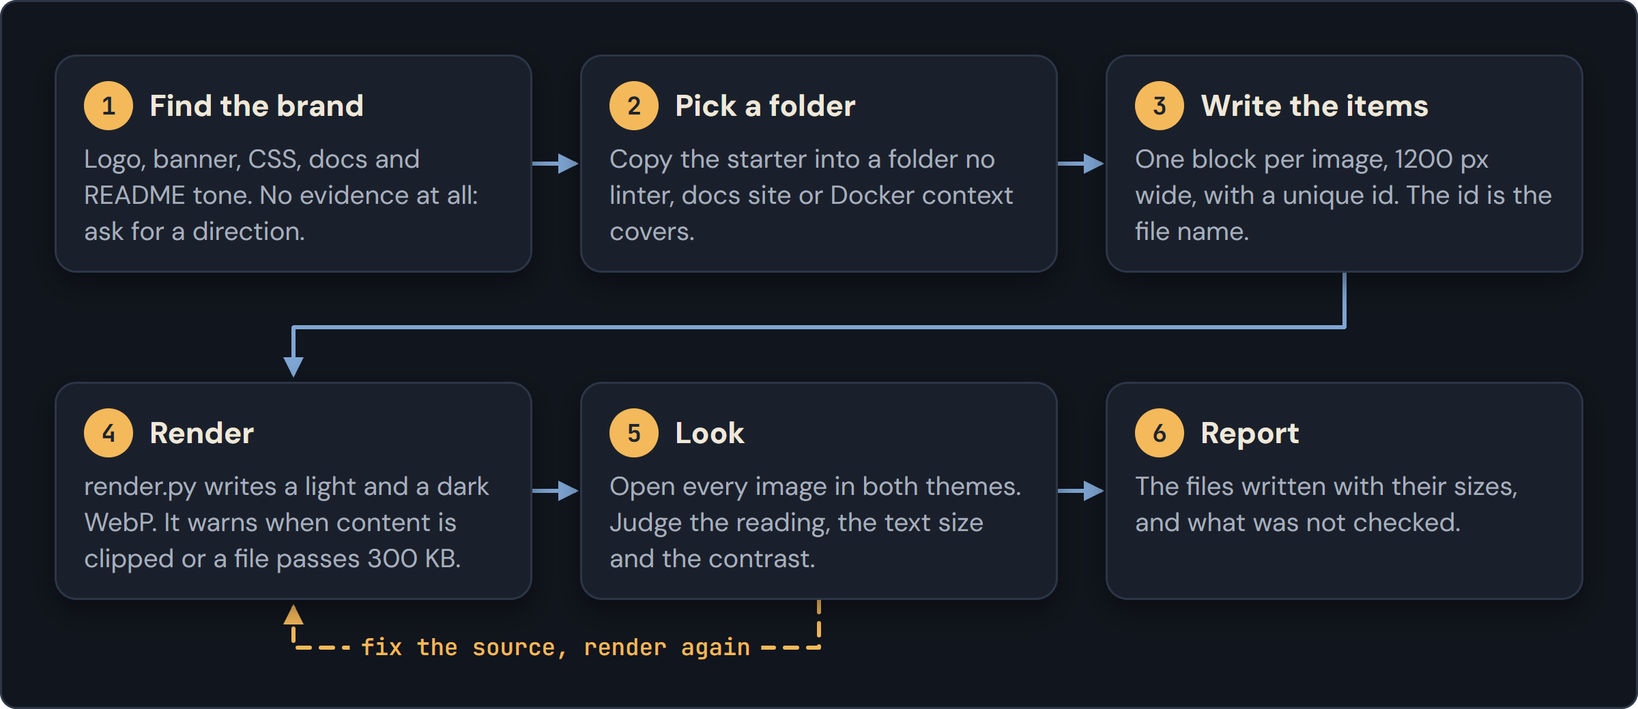
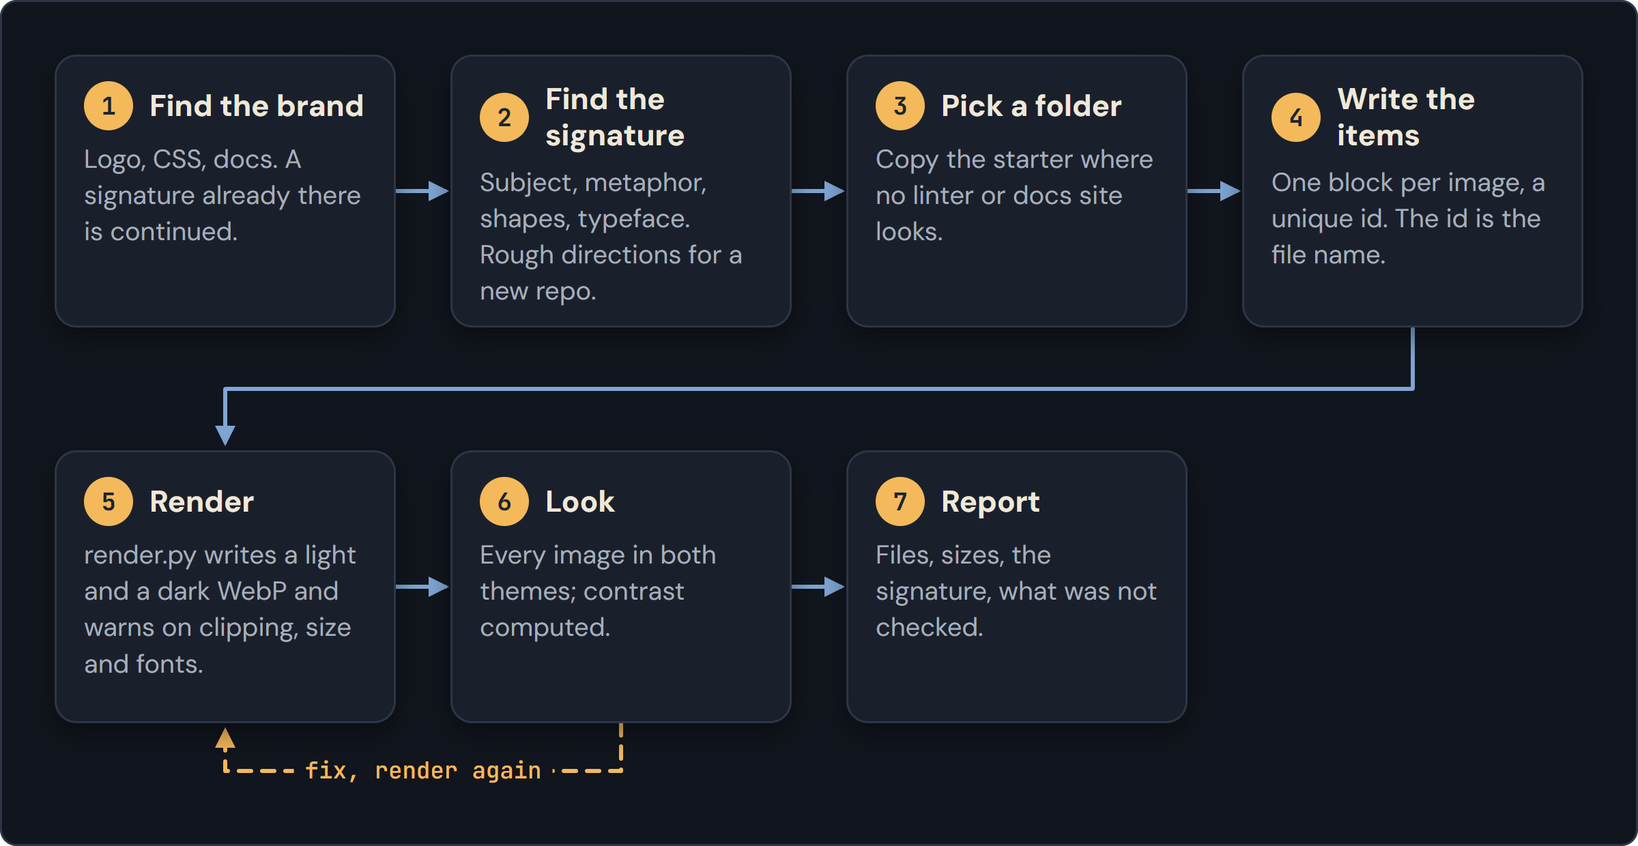
docs(readme-design): redraw pictures to match the reworked skills
Why:
- The README, its picture sources and the pictures still described the earlier skills (an audit, a plan and a rewrite; pictures that match a brand), while the skills now write a complete README with a hero banner and derive a signature per repository. A picture that states a step the skill no longer has is a claim the repository cannot back.
- The README said no look is fixed and the starter colours are placeholders, which no longer states what the skills do.
- The records of the README pictures needed to say that this repository's look is one example of a signature and not a template, and to log the redraw.

Changes:
- README.md: skills-map alt text - the readme card now reads "in, no README, or a wall of text, ASCII diagrams or Mermaid; out, a complete README with a hero banner and light and dark pictures", and the illustration card reads "pictures with a look of their own"
- README.md: skills table - the readme row trigger is now "the README is missing, or a wall of text, ASCII diagrams or Mermaid" and its result "a complete README with a hero banner and light/dark image pairs, in a look drawn from your repository"; the illustration row trigger is "pictures with a look of their own that regenerate from text"
[…]

diff --git a/assets/source/readme.html b/assets/source/readme.html
@@ -81,14 +81,14 @@
       <div class="arch skill">
         <div class="glow"><svg viewBox="0 0 64 64"><rect x="12" y="8" width="40" height="48" rx="6"/><rect class="al" x="19" y="15" width="26" height="14" rx="3" style="fill: var(--amber-soft)"/><path d="M19 38h26M19 46h16"/></svg></div>
         <div class="nm">frontdoor-readme</div>
-        <div class="io in"><span class="eyebrow">in</span><p>A wall of text, ASCII diagrams or Mermaid</p></div>
-        <div class="io"><span class="eyebrow">out</span><p>An audited plan, then light and dark picture pairs</p></div>
+        <div class="io in"><span class="eyebrow">in</span><p>No README, or a wall of text, ASCII diagrams or Mermaid</p></div>
+        <div class="io"><span class="eyebrow">out</span><p>A complete README with a hero banner and light and dark pictures</p></div>
       </div>
       <div class="link"><span class="mono">optional<br>help</span><i class="dash"></i></div>
       <div class="arch skill">
         <div class="glow"><svg viewBox="0 0 64 64"><rect x="8" y="12" width="48" height="40" rx="6"/><circle class="a" cx="22" cy="26" r="5"/><path d="M10 46L26 32l10 10 8-8 10 12"/></svg></div>
         <div class="nm">frontdoor-illustrate</div>
-        <div class="io in"><span class="eyebrow">in</span><p>Pictures that match a brand, regenerated from text</p></div>
+        <div class="io in"><span class="eyebrow">in</span><p>Pictures with a look of their own, regenerated from text</p></div>
         <div class="io"><span class="eyebrow">out</span><p>Rounded, bordered WebP, one light and one dark per HTML block</p></div>
       </div>
       <div class="link"><span class="mono">optional<br>help</span><i class="dash l"></i></div>
@@ -103,77 +103,87 @@
   </div>
 </div>
 
-<div class="item" id="readme-flow" style="height: 528px">
-  <svg class="wires" width="1200" height="528" viewBox="0 0 1200 528" aria-hidden="true">
-    <path class="w" d="M290 132H326"/><path class="w" d="M580 132H616"/><path class="w" d="M870 132H906"/>
-    <path class="w" d="M1035 224V264H165V298"/>
-    <path class="w" d="M290 396H326"/><path class="w" d="M580 396H616"/><path class="w" d="M870 396H906"/>
+<div class="item" id="readme-flow" style="height: 720px">
+  <svg class="wires" width="1200" height="720" viewBox="0 0 1200 720" aria-hidden="true">
+    <path class="w" d="M370 120H426"/><path class="w" d="M770 120H826"/>
+    <path class="w" d="M1000 200V240H200V274"/>
+    <path class="w" d="M370 360H426"/><path class="w" d="M770 360H826"/>
+    <path class="w" d="M1000 440V480H200V514"/>
+    <path class="w" d="M370 600H426"/><path class="w" d="M770 600H826"/>
   </svg>
-  <div class="card step" style="left: 40px; top: 40px; width: 250px; height: 184px">
-    <div class="hd"><span class="badge">1</span><span class="tt">Audit</span></div>
-    <p class="ds">The README, the banner, the docs and the repository's own rules.</p>
+  <div class="card step" style="left: 30px; top: 40px; width: 340px; height: 160px">
+    <div class="hd"><span class="badge">1</span><span class="tt">Classify</span></div>
+    <p class="ds">Read the code, the docs and any README. Greenfield or brownfield?</p>
   </div>
-  <div class="card step" style="left: 330px; top: 40px; width: 250px; height: 184px">
-    <div class="hd"><span class="badge">2</span><span class="tt">Ask</span></div>
-    <p class="ds">Labelled questions. Nobody to answer: take the default, write questions.md.</p>
+  <div class="card step" style="left: 430px; top: 40px; width: 340px; height: 160px">
+    <div class="hd"><span class="badge">2</span><span class="tt">Facts and questions</span></div>
+    <p class="ds">A fact list with a source for each line. Labelled questions for the rest.</p>
   </div>
-  <div class="card step" style="left: 620px; top: 40px; width: 250px; height: 184px">
-    <div class="hd"><span class="badge">3</span><span class="tt">Plan</span></div>
-    <p class="ds">The new section order, which sections get images, which files are added.</p>
+  <div class="card step" style="left: 830px; top: 40px; width: 340px; height: 160px">
+    <div class="hd"><span class="badge">3</span><span class="tt">Signature and hero</span></div>
+    <p class="ds">A look drawn from this project, and a hero banner in every run.</p>
   </div>
-  <div class="card step gate" style="left: 910px; top: 40px; width: 250px; height: 184px">
+  <div class="card step" style="left: 30px; top: 280px; width: 340px; height: 160px">
+    <div class="hd"><span class="badge">4</span><span class="tt">Plan</span></div>
+    <p class="ds">Section order, scenes and diagrams, the hero, the files to add.</p>
+  </div>
+  <div class="card step gate" style="left: 430px; top: 280px; width: 340px; height: 160px">
     <div class="hd"><span class="badge gate"><svg viewBox="0 0 36 36"><path d="M9 31V16a9 9 0 0 1 18 0v15z"/><circle cx="23" cy="24" r="1.5"/></svg></span><span class="tt">Wait for approval</span></div>
-    <p class="ds">The redesign touches the page every visitor sees.</p>
+    <p class="ds">A README is the page every visitor sees.</p>
   </div>
-  <div class="card step" style="left: 40px; top: 304px; width: 250px; height: 184px">
-    <div class="hd"><span class="badge">4</span><span class="tt">Build</span></div>
+  <div class="card step" style="left: 830px; top: 280px; width: 340px; height: 160px">
+    <div class="hd"><span class="badge">5</span><span class="tt">Build</span></div>
     <p class="ds">Images from frontdoor-illustrate when it is available; otherwise ask how.</p>
   </div>
-  <div class="card step" style="left: 330px; top: 304px; width: 250px; height: 184px">
-    <div class="hd"><span class="badge">5</span><span class="tt">Rewrite</span></div>
-    <p class="ds">The new order, picture pairs and alt text. Reference moves below.</p>
+  <div class="card step" style="left: 30px; top: 520px; width: 340px; height: 160px">
+    <div class="hd"><span class="badge">6</span><span class="tt">Write</span></div>
+    <p class="ds">The complete README, every sentence and command traced to the repository.</p>
   </div>
-  <div class="card step" style="left: 620px; top: 304px; width: 250px; height: 184px">
-    <div class="hd"><span class="badge">6</span><span class="tt">Verify</span></div>
-    <p class="ds">Tests, image paths, anchors. No image carries a fact the README lacks.</p>
+  <div class="card step" style="left: 430px; top: 520px; width: 340px; height: 160px">
+    <div class="hd"><span class="badge">7</span><span class="tt">Verify</span></div>
+    <p class="ds">Tests when there are any, image paths, anchors, and the trace of each statement.</p>
   </div>
-  <div class="card step" style="left: 910px; top: 304px; width: 250px; height: 184px">
-    <div class="hd"><span class="badge">7</span><span class="tt">Record</span></div>
+  <div class="card step" style="left: 830px; top: 520px; width: 340px; height: 160px">
+    <div class="hd"><span class="badge">8</span><span class="tt">Record</span></div>
     <p class="ds">Left in the working tree, never committed. Offers to log the decision.</p>
   </div>
 </div>
 
-<div class="item" id="illustrate-flow" style="height: 520px">
-  <svg class="wires" width="1200" height="520" viewBox="0 0 1200 520" aria-hidden="true">
-    <path class="w" d="M390 120H421"/><path class="w" d="M775 120H806"/>
-    <path class="w" d="M985 200V240H215V274"/>
-    <path class="w" d="M390 360H421"/><path class="w" d="M775 360H806"/>
-    <path class="wa wd" d="M600 440V475H215V446"/>
+<div class="item" id="illustrate-flow" style="height: 620px">
+  <svg class="wires" width="1200" height="620" viewBox="0 0 1200 620" aria-hidden="true">
+    <path class="w" d="M290 140H326"/><path class="w" d="M580 140H616"/><path class="w" d="M870 140H906"/>
+    <path class="w" d="M1035 240V285H165V324"/>
+    <path class="w" d="M290 430H326"/><path class="w" d="M580 430H616"/>
+    <path class="wa wd" d="M455 530V565H165V536"/>
   </svg>
-  <div class="lbl" style="left: 407px; top: 463px">fix the source, render again</div>
-  <div class="card step" style="left: 40px; top: 40px; width: 350px; height: 160px">
+  <div class="lbl" style="left: 310px; top: 553px">fix, render again</div>
+  <div class="card step" style="left: 40px; top: 40px; width: 250px; height: 200px">
     <div class="hd"><span class="badge">1</span><span class="tt">Find the brand</span></div>
-    <p class="ds">Logo, banner, CSS, docs and README tone. No evidence at all: ask for a direction.</p>
+    <p class="ds">Logo, CSS, docs. A signature already there is continued.</p>
   </div>
-  <div class="card step" style="left: 425px; top: 40px; width: 350px; height: 160px">
-    <div class="hd"><span class="badge">2</span><span class="tt">Pick a folder</span></div>
-    <p class="ds">Copy the starter into a folder no linter, docs site or Docker context covers.</p>
+  <div class="card step" style="left: 330px; top: 40px; width: 250px; height: 200px">
+    <div class="hd"><span class="badge">2</span><span class="tt">Find the signature</span></div>
+    <p class="ds">Subject, metaphor, shapes, typeface. Rough directions for a new repo.</p>
   </div>
-  <div class="card step" style="left: 810px; top: 40px; width: 350px; height: 160px">
-    <div class="hd"><span class="badge">3</span><span class="tt">Write the items</span></div>
-    <p class="ds">One block per image, 1200 px wide, with a unique id. The id is the file name.</p>
+  <div class="card step" style="left: 620px; top: 40px; width: 250px; height: 200px">
+    <div class="hd"><span class="badge">3</span><span class="tt">Pick a folder</span></div>
+    <p class="ds">Copy the starter where no linter or docs site looks.</p>
   </div>
-  <div class="card step" style="left: 40px; top: 280px; width: 350px; height: 160px">
-    <div class="hd"><span class="badge">4</span><span class="tt">Render</span></div>
-    <p class="ds">render.py writes a light and a dark WebP. It warns when content is clipped or a file passes 300 KB.</p>
+  <div class="card step" style="left: 910px; top: 40px; width: 250px; height: 200px">
+    <div class="hd"><span class="badge">4</span><span class="tt">Write the items</span></div>
+    <p class="ds">One block per image, a unique id. The id is the file name.</p>
   </div>
-  <div class="card step" style="left: 425px; top: 280px; width: 350px; height: 160px">
-    <div class="hd"><span class="badge">5</span><span class="tt">Look</span></div>
-    <p class="ds">Open every image in both themes. Judge the reading, the text size and the contrast.</p>
+  <div class="card step" style="left: 40px; top: 330px; width: 250px; height: 200px">
+    <div class="hd"><span class="badge">5</span><span class="tt">Render</span></div>
+    <p class="ds">render.py writes a light and a dark WebP and warns on clipping, size and fonts.</p>
   </div>
-  <div class="card step" style="left: 810px; top: 280px; width: 350px; height: 160px">
-    <div class="hd"><span class="badge">6</span><span class="tt">Report</span></div>
-    <p class="ds">The files written with their sizes, and what was not checked.</p>
+  <div class="card step" style="left: 330px; top: 330px; width: 250px; height: 200px">
+    <div class="hd"><span class="badge">6</span><span class="tt">Look</span></div>
+    <p class="ds">Every image in both themes; contrast computed.</p>
+  </div>
+  <div class="card step" style="left: 620px; top: 330px; width: 250px; height: 200px">
+    <div class="hd"><span class="badge">7</span><span class="tt">Report</span></div>
+    <p class="ds">Files, sizes, the signature, what was not checked.</p>
   </div>
 </div>
 
@@ -201,7 +211,7 @@
   </div>
   <div class="card step" style="left: 30px; top: 280px; width: 340px; height: 160px">
     <div class="hd"><span class="badge">3</span><span class="tt">Learn the project</span></div>
-    <p class="ds">The README, the brand and the repository's writing rules. Labelled questions for the rest.</p>
+    <p class="ds">The README, brand, signature and writing rules. Labelled questions for the rest.</p>
   </div>
   <div class="card step" style="left: 430px; top: 280px; width: 340px; height: 160px">
     <div class="hd"><span class="badge">4</span><span class="tt">Try directions</span></div>
@@ -213,7 +223,7 @@
   </div>
   <div class="card step" style="left: 30px; top: 520px; width: 340px; height: 160px">
     <div class="hd"><span class="badge">6</span><span class="tt">Preview image</span></div>
-    <p class="ds">A 1200x630 PNG for the Open Graph and Twitter tags.</p>
+    <p class="ds">A 1200x630 PNG for Open Graph and Twitter, recomposed from the hero.</p>
   </div>
   <div class="card step" style="left: 430px; top: 520px; width: 340px; height: 160px">
     <div class="hd"><span class="badge">7</span><span class="tt">Verify</span></div>

diff --git a/README.md b/README.md
@@ -4,12 +4,12 @@
 
 ## Skills
 
-<picture><source media="(prefers-color-scheme: dark)" srcset="assets/skills-map-dark.webp"><img src="assets/skills-map.webp" alt="Map of the skills, each an arched card. frontdoor-readme: in, a wall of text, ASCII diagrams or Mermaid; out, an audited plan, then light and dark picture pairs. frontdoor-illustrate: in, pictures that match a brand, regenerated from text; out, rounded, bordered WebP, one light and one dark per HTML block. frontdoor-landing: in, a repository with no landing page; out, one index.html with an Open Graph preview. Dashed arrows labelled optional help run from frontdoor-readme and from frontdoor-landing to frontdoor-illustrate. Each skill carries its own scripts and references; install one folder and it works alone." width="100%"></picture>
+<picture><source media="(prefers-color-scheme: dark)" srcset="assets/skills-map-dark.webp"><img src="assets/skills-map.webp" alt="Map of the skills, each an arched card. frontdoor-readme: in, no README, or a wall of text, ASCII diagrams or Mermaid; out, a complete README with a hero banner and light and dark pictures. frontdoor-illustrate: in, pictures with a look of their own, regenerated from text; out, rounded, bordered WebP, one light and one dark per HTML block. frontdoor-landing: in, a repository with no landing page; out, one index.html with an Open Graph preview. Dashed arrows labelled optional help run from frontdoor-readme and from frontdoor-landing to frontdoor-illustrate. Each skill carries its own scripts and references; install one folder and it works alone." width="100%"></picture>
 
 | Skill | Use it when | Result |
 |---|---|---|
-| `frontdoor-readme` | the README is a wall of text, ASCII diagrams or Mermaid | an audited plan, then a README that uses `<picture>` light/dark image pairs |
-| `frontdoor-illustrate` | you need pictures that match a brand and regenerate from text | rounded, bordered WebP files, one light and one dark per HTML block |
+| `frontdoor-readme` | the README is missing, or a wall of text, ASCII diagrams or Mermaid | a complete README with a hero banner and `<picture>` light/dark image pairs, in a look drawn from your repository |
+| `frontdoor-illustrate` | you need pictures with a look of their own that regenerate from text | rounded, bordered WebP files, one light and one dark per HTML block |
 | `frontdoor-landing` | the repository has no landing page and should have one | a single `index.html` with Open Graph preview, checked at three widths in both themes |
 
 Each skill carries its own scripts and references. Install one folder and it works alone. Skills name each other only as optional help.
@@ -25,7 +25,7 @@ It plans before it builds: nothing is rewritten until the plan is approved.
 <details>
 <summary>Step by step</summary>
 
-<picture><source media="(prefers-color-scheme: dark)" srcset="assets/readme-flow-dark.webp"><img src="assets/readme-flow.webp" alt="Flow of frontdoor-readme, in order. 1 Audit: the README, the banner, the docs and the repository's own rules. 2 Ask: labelled questions; with nobody to answer, take the default and write questions.md. 3 Plan: the new section order, which sections get images, which files are added. Then wait for approval, because the redesign touches the page every visitor sees. 4 Build: images from frontdoor-illustrate when it is available, otherwise ask how. 5 Rewrite: the new order, picture pairs and alt text, with reference material moved below. 6 Verify: tests, image paths and anchors, and that no image carries a fact the README lacks. 7 Record: the work is left in the working tree and never committed, and the skill offers to log the decision." width="100%"></picture>
+<picture><source media="(prefers-color-scheme: dark)" srcset="assets/readme-flow-dark.webp"><img src="assets/readme-flow.webp" alt="Flow of frontdoor-readme, in order. 1 Classify: read the code, the docs and any README, and decide greenfield or brownfield. 2 Facts and questions: a fact list with a source for each line, and labelled questions for the rest. 3 Signature and hero: a look drawn from this project, and a hero banner in every run. 4 Plan: the section order, scenes and diagrams, the hero and the files to add. Then wait for approval, because a README is the page every visitor sees. 5 Build: images from frontdoor-illustrate when it is available, otherwise ask how. 6 Write: the complete README, every sentence and command traced to the repository. 7 Verify: tests when there are any, image paths, anchors, and the trace of each statement. 8 Record: the work is left in the working tree and never committed, and the skill offers to log the decision." width="100%"></picture>
 
 </details>
 
@@ -38,7 +38,7 @@ Every image is an HTML block, so a later edit is a text edit plus one command.
 <details>
 <summary>Step by step</summary>
 
-<picture><source media="(prefers-color-scheme: dark)" srcset="assets/illustrate-flow-dark.webp"><img src="assets/illustrate-flow.webp" alt="Flow of frontdoor-illustrate, in order. 1 Find the brand: logo, banner, CSS, docs and README tone; with no evidence at all, ask for a direction. 2 Pick a folder: copy the starter into a folder that no linter, docs site or Docker context covers. 3 Write the items: one block per image, 1200 px wide, with a unique id that becomes the file name. 4 Render: render.py writes a light and a dark WebP and warns when content is clipped or a file passes 300 KB. 5 Look: open every image in both themes and judge the reading, the text size and the contrast. A dashed arrow from Look back to Render reads: fix the source, render again. 6 Report: the files written with their sizes, and what was not checked." width="100%"></picture>
+<picture><source media="(prefers-color-scheme: dark)" srcset="assets/illustrate-flow-dark.webp"><img src="assets/illustrate-flow.webp" alt="Flow of frontdoor-illustrate, in order. 1 Find the brand: logo, CSS and docs; a signature already there is continued. 2 Find the signature: subject, metaphor, shapes and typeface, with rough directions for a new repository. 3 Pick a folder: copy the starter where no linter or docs site looks. 4 Write the items: one block per image with a unique id that becomes the file name. 5 Render: render.py writes a light and a dark WebP and warns on clipping, size and fonts. 6 Look: every image in both themes, with contrast computed. A dashed arrow from Look back to Render reads: fix, render again. 7 Report: the files, their sizes, the signature, and what was not checked." width="100%"></picture>
 
 </details>
 
@@ -51,7 +51,7 @@ It looks for an existing landing page first and stops with its evidence when one
 <details>
 <summary>Step by step</summary>
 
-<picture><source media="(prefers-color-scheme: dark)" srcset="assets/landing-flow-dark.webp"><img src="assets/landing-flow.webp" alt="Flow of frontdoor-landing, in order. 1 Check first: is a Pages workflow, a docs site, a CNAME or a real index.html already there? If one is found, the flow goes to Stop and ask: show the evidence, then ask whether to do nothing, build elsewhere or replace. If none is found, it continues. 2 Place it: the root if it is free, docs/ if not, and say which Pages setting to switch on. 3 Learn the project: the README, the brand and the repository's writing rules, with labelled questions for the rest. 4 Try directions: two or three rough pages; you pick one or mix them. 5 Build: one index.html with inline CSS and JS and the repository's images. 6 Preview image: a 1200x630 PNG for the Open Graph and Twitter tags. 7 Verify: 390, 820 and 1280 px in light and dark, axe, then Lighthouse on mobile and desktop. 8 Report: the files written, the Pages setting to switch on, what was not observed, and no commit." width="100%"></picture>
+<picture><source media="(prefers-color-scheme: dark)" srcset="assets/landing-flow-dark.webp"><img src="assets/landing-flow.webp" alt="Flow of frontdoor-landing, in order. 1 Check first: is a Pages workflow, a docs site, a CNAME or a real index.html already there? If one is found, the flow goes to Stop and ask: show the evidence, then ask whether to do nothing, build elsewhere or replace. If none is found, it continues. 2 Place it: the root if it is free, docs/ if not, and say which Pages setting to switch on. 3 Learn the project: the README, brand, signature and writing rules, with labelled questions for the rest. 4 Try directions: two or three rough pages; you pick one or mix them. 5 Build: one index.html with inline CSS and JS and the repository's images. 6 Preview image: a 1200x630 PNG for Open Graph and Twitter, recomposed from the hero. 7 Verify: 390, 820 and 1280 px in light and dark, axe, then Lighthouse on mobile and desktop. 8 Report: the files written, the Pages setting to switch on, what was not observed, and no commit." width="100%"></picture>
 
 </details>
 
@@ -76,7 +76,8 @@ Then ask in a plain sentence, for example "make the README nicer to read" or "ad
 
 - The skills write files and stop. They never commit or push.
 - `frontdoor-landing` stops and shows its evidence when it finds an existing landing page, and asks where `index.html` should go before writing.
-- No look is fixed. The brand comes from the target repository; the starter colours and fonts are placeholders.
+- No look is shipped. Each repository gets its own signature: a vector shape language, a typeface and a way of presenting, derived from what the project is. Two repositories should not come out as one design with different text.
+- `frontdoor-readme` writes the complete README, and every sentence and command traces to the repository or to your answer. Every run ends with a hero banner.
 - Where nobody can answer a question, a skill takes the recommended default and writes the question and the assumed answer to `questions.md`.
 
 ## Status

diff --git a/docs/baseline/readme-design/readme-design.introduction.md b/docs/baseline/readme-design/readme-design.introduction.md
@@ -26,7 +26,7 @@ Every picture is a pair, `assets/<id>.webp` and `assets/<id>-dark.webp`, regener
 | `scene-readme`, `scene-illustrate`, `scene-landing` | `scenes.html` | first picture under each skill in "How each skill runs" (RD-D3) |
 | `readme-flow`, `illustrate-flow`, `landing-flow` | `readme.html` | inside `<details>` "Step by step" under each scene |
 
-README order: hero and a bold lead sentence; Skills (map, table, one sentence); How each skill runs (scene, one sentence, flow in `<details>`, three times); Install; Requirements; Behaviour to know; Status inside `<details>`. The look is an arched doorway in a paper and a night theme (RD-D2).
+README order: hero and a bold lead sentence; Skills (map, table, one sentence); How each skill runs (scene, one sentence, flow in `<details>`, three times); Install; Requirements; Behaviour to know; Status inside `<details>`. The look is an arched doorway in a paper and a night theme (RD-D2); it is one example of a signature, not a template for other repositories (FD-D17, pack frontdoor). The four pictures that restate the skills were redrawn on 2026-10-12 to match the reworked skills.
 
 Observed running, 2026-10-11, on Windows with Edge:
 

diff --git a/docs/baseline/readme-design/readme-design.roadmap.md b/docs/baseline/readme-design/readme-design.roadmap.md
@@ -56,6 +56,21 @@ Acceptance criteria:
 | README | rewritten with the scenes; all sixteen image paths exist; `<details>` tags balance; no non-ASCII character; no skill count in text |
 | Not observed | the README on github.com (RD-Q1) |
 
+## Phase 3: pictures kept in step with the skills
+
+Acceptance criteria:
+
+- `skills-map`, `readme-flow`, `illustrate-flow` and `landing-flow` match the current `SKILL.md` steps
+- the README text and alt texts say the same as the pictures
+
+### Checkpoint: complete
+
+| Item | Result |
+|---|---|
+| Redrawn | `skills-map` card text, `readme-flow` (eight steps and the approval gate), `illustrate-flow` (seven steps and the loop), two card texts in `landing-flow`; `render.py` exit 0, no WARN |
+| README | table rows, alt texts and the behaviour notes updated |
+| Not observed | the README on github.com (RD-Q1) |
+
 ## Risks
 
 | Risk | Detail |
